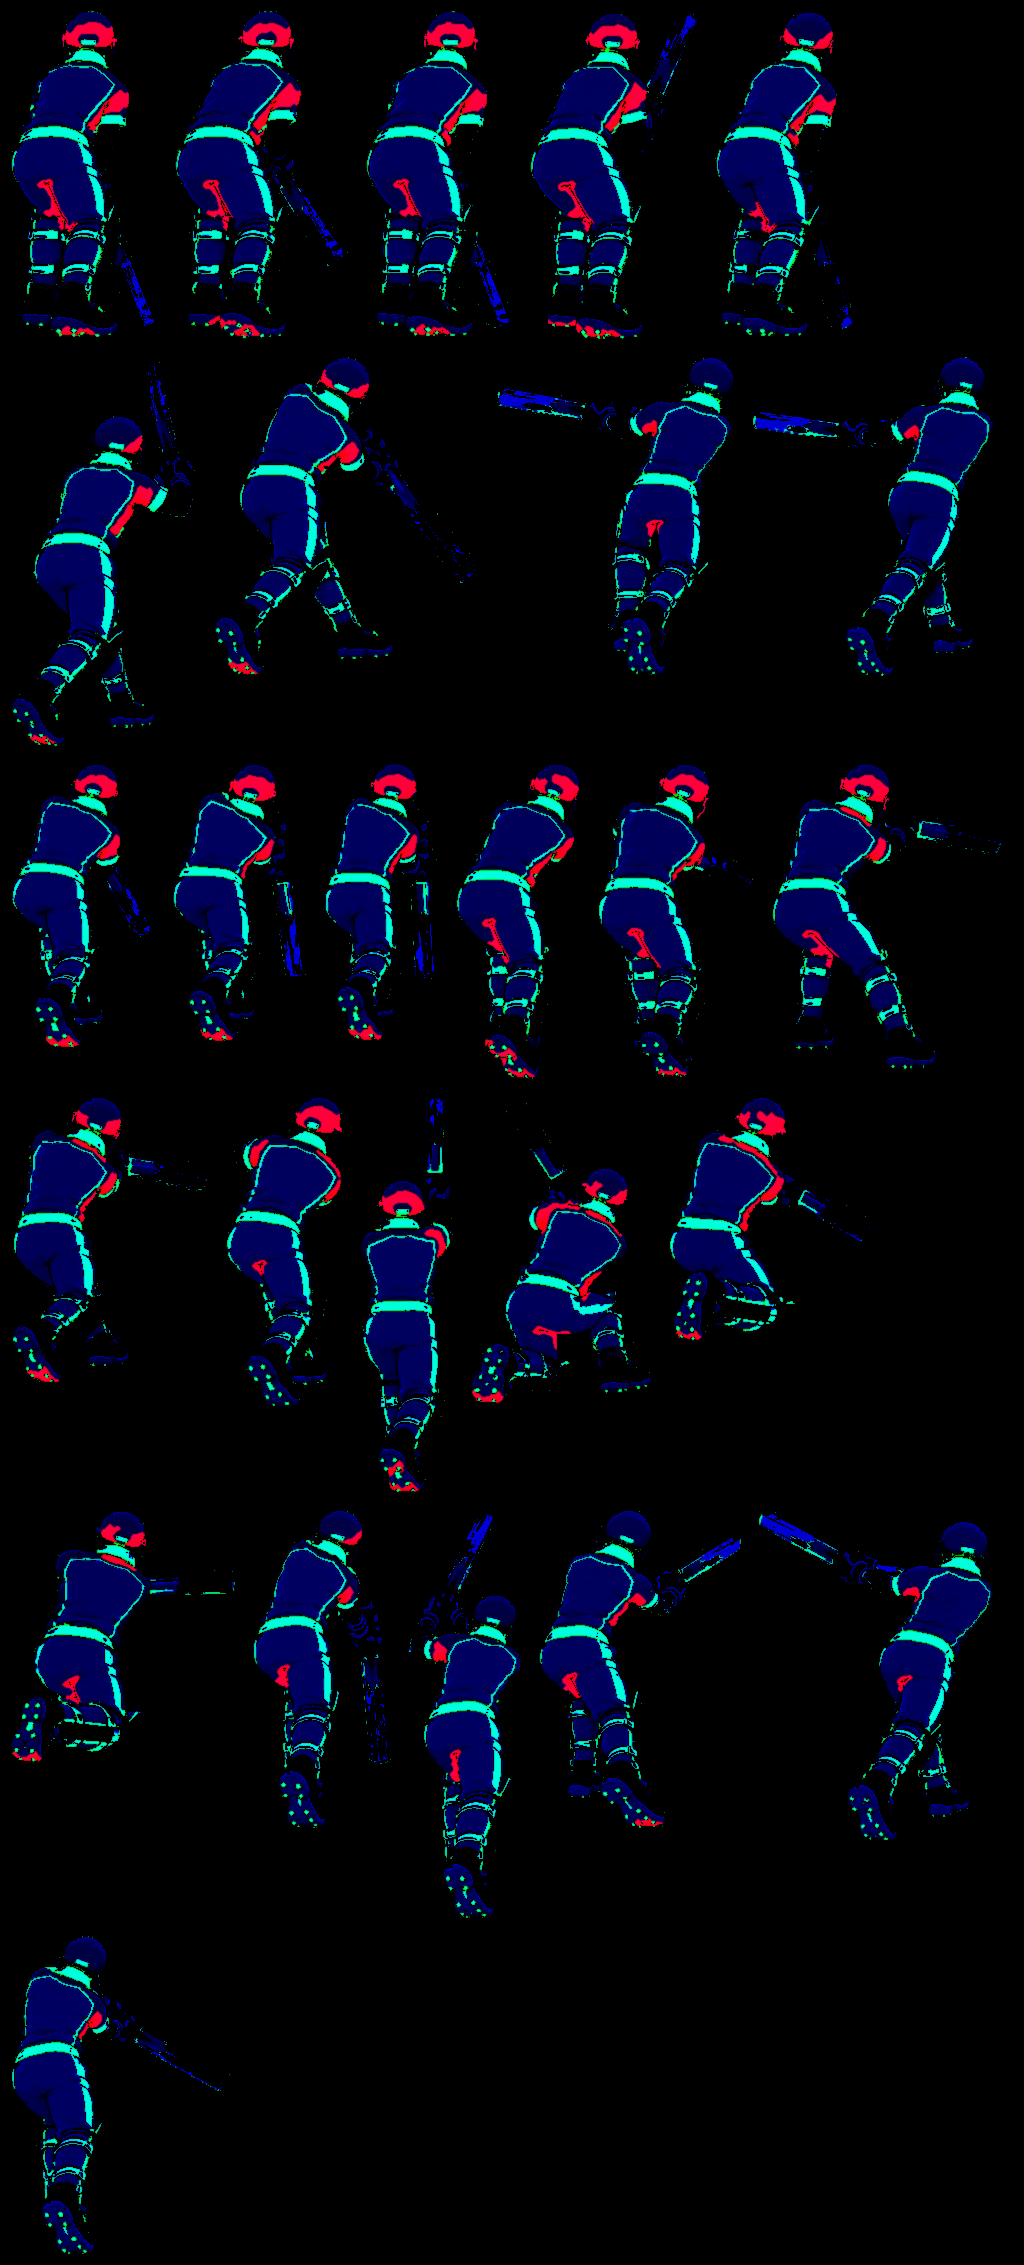
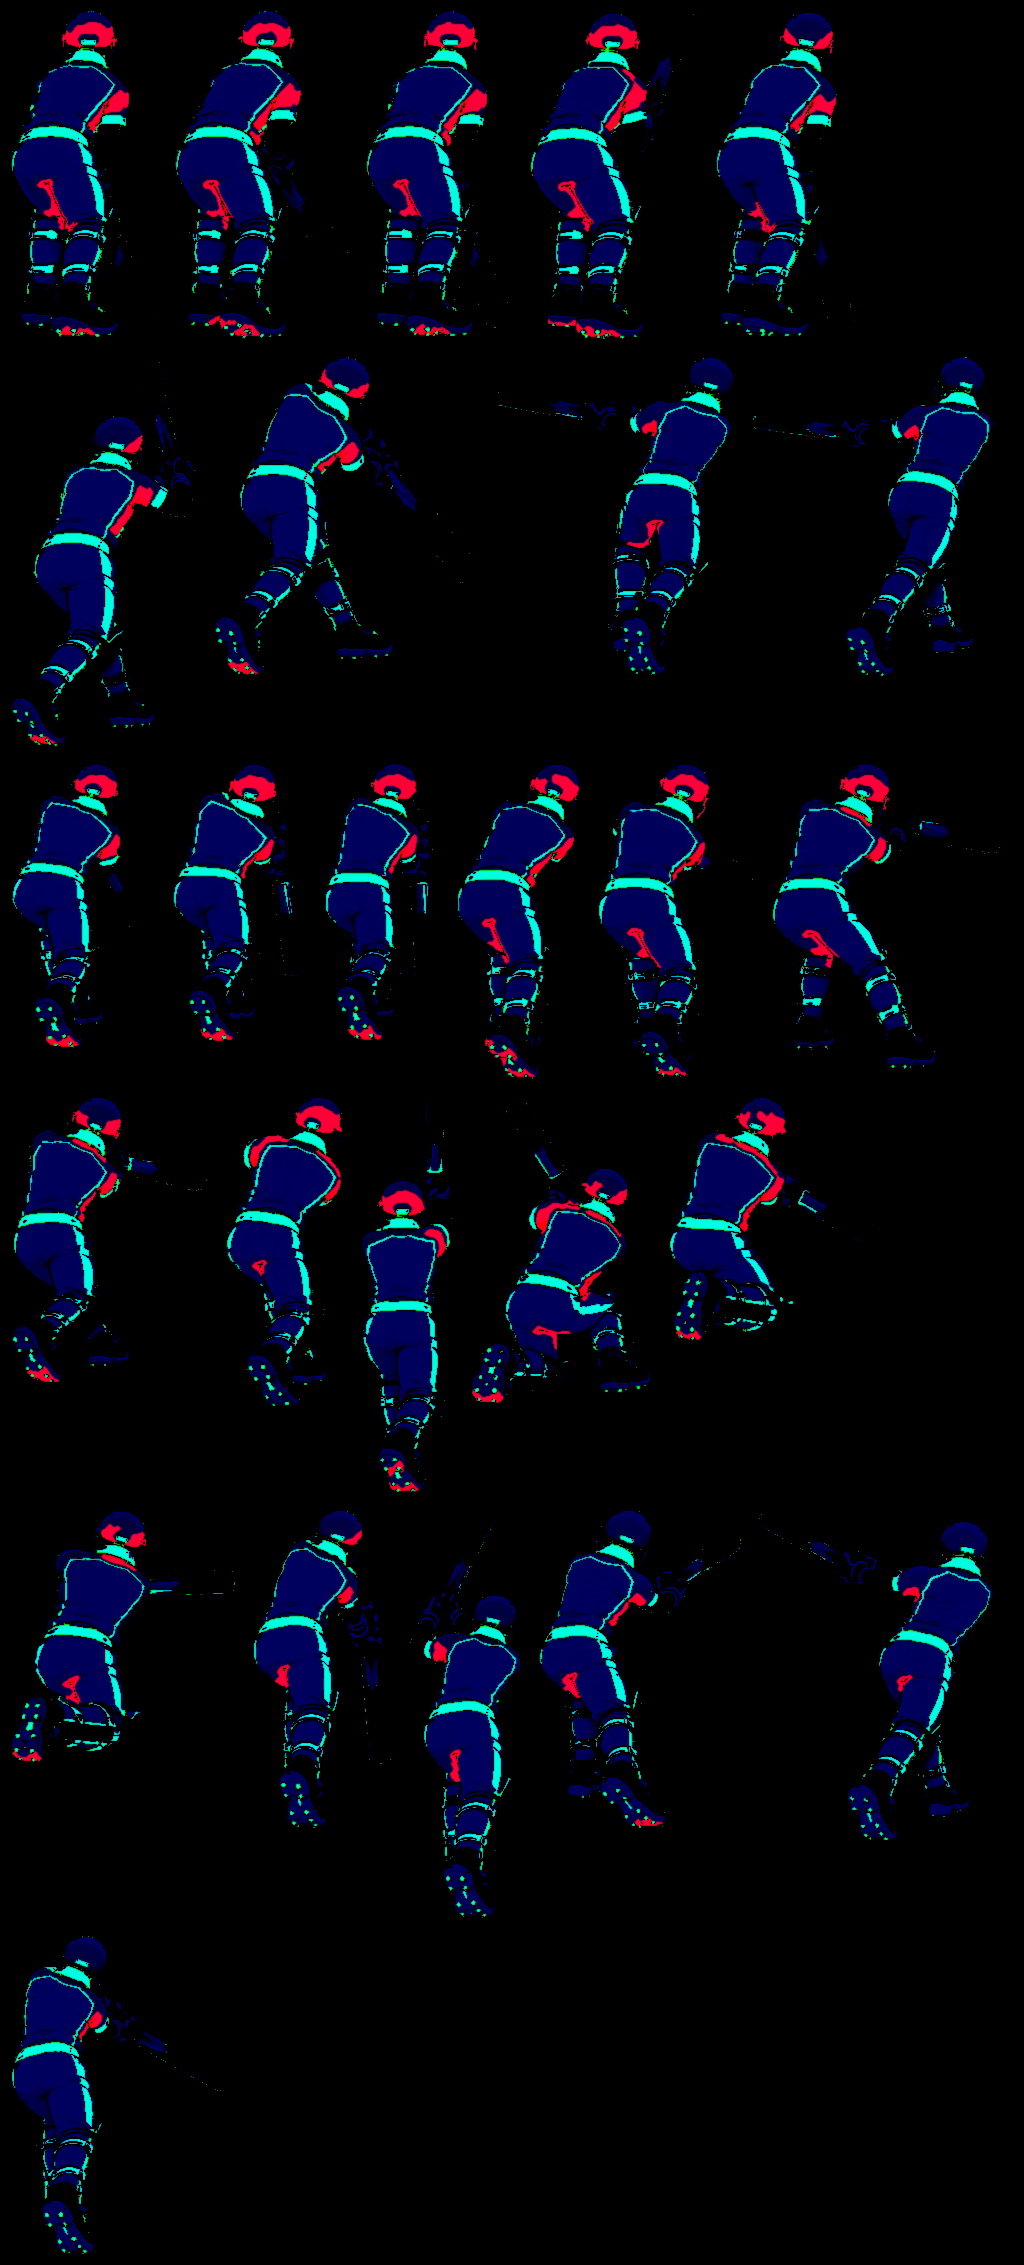
Batter kit shaded like the bowler's (his cloth's light and dark matched to the bowler's), print sized like the bowler's, no pale rim, the willow never takes the trim colour
Claude-Session: https://claude.ai/code/session_01NK7tbrKg5PdA6fuyEUPXLd

diff --git a/js/kitsheets.js b/js/kitsheets.js
@@ -2,4 +2,4 @@
 // [x, y, w, h, feet x, feet y] in sheet order; place: the crest (front: [x, y, size, squash x,
 // squash y, tilt]) or the name-and-number print (back: [x, y, width, squash x, squash y, tilt,
 // name dx, dy, number dx, dy]) per frame; shading references for the repaint.
-export const KIT_SHEETS = {"front":{"frames":[[4,4,227,609,115.7,602],[235,4,204,603,108.5,596],[443,4,232,595,100.6,588],[679,4,181,601,90.4,594],[4,617,184,670,98.7,663],[192,617,204,657,107.8,650],[400,617,234,531,161.4,524],[638,617,200,532,104.9,525],[4,1291,201,557,90.7,550],[209,1291,216,579,105.9,572]],"place":[[153,167,36,1,1,0],[377,154,35,1,1,0],[591,154,35,1,1,0],[795,159,32,0.9,1,0],[142,863,31,0.95,1,5],[363,868,31,0.95,1,5],[549,761,34,1,0.85,0],[754,762,31,0.95,0.85,-5],[148,1439,35,1,1,0],[359,1454,36,1,1,0]],"refPx":580,"suit":[0.0376,0.2954,0.587],"trim":[0.5314,0.8456,0.9029],"skin":0.7306,"tones":[0.2955,0.2955,0.8423],"hair":{"beard_full":0.2269,"beard_goatee":0.1998,"beard_long":0.1906,"bun":0.2773,"buzz":0.2963,"cap":0.2815,"curly":0.2799,"dreads":0.2727,"long":0.2593,"messy":0.2999,"part":0.3383,"ponytail":0.2813,"spiky":0.2762},"size":[1024,1874]},"back":{"frames":[[4,4,223,593,111.2,586],[231,4,203,585,111.9,578],[438,4,226,585,125.1,578],[668,4,184,572,61.0,565],[4,601,172,628,61.9,621],[180,601,213,636,106.9,629],[397,601,240,538,146.8,531],[641,601,234,534,104.0,527],[4,1241,213,572,115.0,565],[221,1241,215,586,107.6,579]],"place":[[116.6,158.1,88.0,1.0,1.0,0.4,0,0,0,0],[343.2,149.0,88.0,1.0,1.0,0.8,0,0,0,0],[558.0,148.9,88.0,1.0,1.0,0.0,0,0,0,0],[738,149.2,84.5,0.88,1.0,2,-4,0,-2,0],[95.9,814.9,81.0,0.85,0.95,15.1,0,0,0,0],[306.5,801.6,81.0,0.85,0.95,10.9,0,0,0,0],[502,714.2,86.2,1.0,0.75,-6,0,0,0,0],[741,714.7,86.2,1.0,0.75,-6,0,0,0,0],[117.6,1385.2,88.0,1.0,1.0,0.4,0,0,0,0],[331.2,1393.8,89.8,1.0,1.0,0.8,0,0,0,0]],"refPx":563,"suit":[0.032,0.3087,0.5514],"trim":[0.5231,0.8489,0.9123],"skin":0.7332,"tones":[0.3087,0.3087,0.8455],"hair":{"bun":0.2553,"buzz":0.2918,"cap":0.2709,"curly":0.2702,"dreads":0.2718,"long":0.2647,"messy":0.2757,"part":0.2824,"ponytail":0.2667,"spiky":0.2812},"size":[1024,1831]},"spin-front":{"frames":[[4,4,182,471,90.8,464],[190,4,175,474,103.6,467],[369,4,172,473,91.2,466],[545,4,173,483,87.0,476],[722,4,165,515,62.2,508],[4,523,164,565,80.0,558],[172,523,152,564,71.3,544],[328,523,165,547,53.2,528],[497,523,255,478,85.7,461],[756,523,173,413,62.2,400],[4,1092,264,385,95.9,378],[272,1092,180,405,108.1,398],[456,1092,144,425,76.3,418],[604,1092,179,431,74.7,424],[787,1092,192,438,94.7,431]],"place":[[133,134,26,1,1,0],[324,133,24,1,1,0],[503,130,24,1,1,0],[663,127,24,1,1,0],[848,180,24,1,1,0],[145,711,22,0.9,1,0],[268,717,21,0.9,1,0],[456,715,21,0.9,1,0],[646,705,20,0.9,0.9,10],[872,632,20,0.9,0.85,0],[118,1191,19,0.9,0.85,0],[368,1192,21,1,0.9,0],[524,1199,22,1,0.95,0],[728,1206,26,1,1,0],[918,1204,26,1,1,0]],"refPx":441,"suit":[0.0299,0.3355,0.4715],"trim":[0.548,0.8593,0.9122],"skin":0.7273,"tones":[0.341,0.154,0.8608],"hair":{"beard_full":0.1972,"beard_goatee":0.2001,"beard_long":0.2064,"bun":0.2433,"buzz":0.241,"cap":0.2898,"curly":0.2653,"dreads":0.2535,"long":0.2468,"messy":0.2721,"part":0.2843,"ponytail":0.2781,"spiky":0.2609},"size":[1024,1534]},"spin-back":{"frames":[[4,4,205,533,100.3,526],[213,4,201,526,110.7,519],[418,4,214,510,122.2,503],[636,4,168,520,54.4,513],[808,4,157,568,64.3,561],[4,576,174,536,56.4,529],[182,576,168,528,67.2,521],[354,576,165,520,59.7,498],[523,576,204,489,64.8,467],[731,576,195,427,99.9,420],[4,1116,270,378,98.4,371],[278,1116,189,392,97.5,385],[471,1116,207,396,98.1,389],[682,1116,185,397,98.2,390],[4,1517,193,401,95.6,394]],"place":[[110,150,72.0,1,1,0,0,0,0,0],[326,138,72.0,1,1,0,0,0,0,0],[539,138,72.0,0.95,1,0,0,0,0,0],[711,141,72.0,0.95,1,11,0,0,0,0],[894,208,72.0,0.95,1,5,0,0,0,0],[100,760,72.0,0.95,1,10,0,0,0,0],[266,753,72.0,0.95,1,10,0,0,0,0],[451,742,72.0,0.95,0.95,18,0,0,0,0],[637,718,72.0,0.95,0.8,20,0,0,0,0],[853,677,72.0,0.95,0.8,12,0,0,0,0],[115,1188,72.0,1,0.7,-6,0,0,0,0],[362,1201,72.0,1,0.75,-10,0,0,0,0],[558,1210,72.0,1,0.85,-6,0,0,0,0],[773,1218,72.0,1,1,0,0,0,0,0],[104,1643,72.0,1,1,0,0,0,0,0]],"refPx":502,"suit":[0.0255,0.3304,0.4621],"trim":[0.5425,0.8472,0.9129],"skin":0.735,"tones":[0.3359,0.1507,0.8497],"hair":{"bun":0.2768,"buzz":0.2522,"cap":0.3009,"curly":0.2524,"dreads":0.3474,"long":0.2919,"messy":0.2526,"part":0.2321,"ponytail":0.2864,"spiky":0.2346},"size":[1024,1922]},"bat-back":{"frames":[[4,4,160,340,81.7,333],[168,4,187,341,73.3,334],[359,4,160,340,81.7,333],[523,4,182,342,75.4,335],[709,4,153,340,73.3,333],[4,350,199,403,66.6,396],[207,350,279,332,80.6,325],[490,350,252,332,154.4,325],[746,350,254,333,132.3,326],[4,757,157,297,59.1,290],[165,757,148,292,53.1,285],[317,757,128,291,48.3,284],[449,757,138,329,69.7,322],[591,757,170,327,78.0,320],[765,757,244,319,131.4,312],[4,1090,211,300,52.1,293],[219,1090,131,325,61.7,318],[354,1090,106,409,49.5,402],[464,1090,194,321,77.0,314],[662,1090,218,257,61.1,250],[4,1503,238,267,53.9,260],[246,1503,152,332,59.5,325],[402,1503,127,422,69.6,415],[533,1503,215,332,108.5,325],[752,1503,248,345,128.2,338],[4,1929,233,332,69.8,325]],"place":[[73.0,95,42.2,1,1,0,0,0,0,0],[240.0,93,44.0,1,1,0,0,0,0,0],[429.5,95,42.2,1,1,0,0,0,0,0],[589.5,96,42.8,1,1,0,0,0,0,0],[780.0,94,42.8,1,1,0,0,0,0,0],[96.0,499,44.6,1,1,0,0,0,0,0],[305.0,427,45.9,1,1,0,0,0,0,0],[690.0,439,45.9,1,1,0,0,0,0,0],[953.0,438,44.0,1,1,0,0,0,0,0],[74.5,832,40.9,1,1,0,0,0,0,0],[229.5,832,44.0,1,1,0,0,0,0,0],[375.5,837,46.5,1,1,0,0,0,0,0],[525.0,836,41.5,1,1,0,0,0,0,0],[658.0,841,47.1,1,1,0,0,0,0,0],[834.5,841,45.9,1,1,0,0,0,0,0],[68.0,1174,47.1,1,1,0,0,0,0,0],[295.0,1177,45.3,1,1,0,0,0,0,0],[401.0,1267,44.6,1,1,0,0,0,0,0],[581.0,1241,41.5,1,1,0,0,0,0,0],[733.0,1178,49.6,1,1,0,0,0,0,0],[104.0,1590,45.3,1,1,0,0,0,0,0],[310.0,1581,45.9,1,1,0,0,0,0,0],[479.5,1668,42.8,1,1,0,0,0,0,0],[597.0,1589,45.9,1,1,0,0,0,0,0],[954.0,1600,39.7,1,1,0,0,0,0,0],[58.5,2007,44.0,1,1,0,0,0,0,0]],"refPx":328,"suit":[0.0416,0.3529,0.6141],"trim":[0.4749,0.8562,0.9238],"skin":0.6371,"tones":[0.3575,0.2091,0.8592],"hair":{},"size":[1024,2265]}};
+export const KIT_SHEETS = {"front":{"frames":[[4,4,227,609,115.7,602],[235,4,204,603,108.5,596],[443,4,232,595,100.6,588],[679,4,181,601,90.4,594],[4,617,184,670,98.7,663],[192,617,204,657,107.8,650],[400,617,234,531,161.4,524],[638,617,200,532,104.9,525],[4,1291,201,557,90.7,550],[209,1291,216,579,105.9,572]],"place":[[153,167,36,1,1,0],[377,154,35,1,1,0],[591,154,35,1,1,0],[795,159,32,0.9,1,0],[142,863,31,0.95,1,5],[363,868,31,0.95,1,5],[549,761,34,1,0.85,0],[754,762,31,0.95,0.85,-5],[148,1439,35,1,1,0],[359,1454,36,1,1,0]],"refPx":580,"suit":[0.0376,0.2954,0.587],"trim":[0.5314,0.8456,0.9029],"skin":0.7306,"tones":[0.2955,0.2955,0.8423],"hair":{"beard_full":0.2269,"beard_goatee":0.1998,"beard_long":0.1906,"bun":0.2773,"buzz":0.2963,"cap":0.2815,"curly":0.2799,"dreads":0.2727,"long":0.2593,"messy":0.2999,"part":0.3383,"ponytail":0.2813,"spiky":0.2762},"size":[1024,1874]},"back":{"frames":[[4,4,223,593,111.2,586],[231,4,203,585,111.9,578],[438,4,226,585,125.1,578],[668,4,184,572,61.0,565],[4,601,172,628,61.9,621],[180,601,213,636,106.9,629],[397,601,240,538,146.8,531],[641,601,234,534,104.0,527],[4,1241,213,572,115.0,565],[221,1241,215,586,107.6,579]],"place":[[116.6,158.1,88.0,1.0,1.0,0.4,0,0,0,0],[343.2,149.0,88.0,1.0,1.0,0.8,0,0,0,0],[558.0,148.9,88.0,1.0,1.0,0.0,0,0,0,0],[738,149.2,84.5,0.88,1.0,2,-4,0,-2,0],[95.9,814.9,81.0,0.85,0.95,15.1,0,0,0,0],[306.5,801.6,81.0,0.85,0.95,10.9,0,0,0,0],[502,714.2,86.2,1.0,0.75,-6,0,0,0,0],[741,714.7,86.2,1.0,0.75,-6,0,0,0,0],[117.6,1385.2,88.0,1.0,1.0,0.4,0,0,0,0],[331.2,1393.8,89.8,1.0,1.0,0.8,0,0,0,0]],"refPx":563,"suit":[0.032,0.3087,0.5514],"trim":[0.5231,0.8489,0.9123],"skin":0.7332,"tones":[0.3087,0.3087,0.8455],"hair":{"bun":0.2553,"buzz":0.2918,"cap":0.2709,"curly":0.2702,"dreads":0.2718,"long":0.2647,"messy":0.2757,"part":0.2824,"ponytail":0.2667,"spiky":0.2812},"size":[1024,1831]},"spin-front":{"frames":[[4,4,182,471,90.8,464],[190,4,175,474,103.6,467],[369,4,172,473,91.2,466],[545,4,173,483,87.0,476],[722,4,165,515,62.2,508],[4,523,164,565,80.0,558],[172,523,152,564,71.3,544],[328,523,165,547,53.2,528],[497,523,255,478,85.7,461],[756,523,173,413,62.2,400],[4,1092,264,385,95.9,378],[272,1092,180,405,108.1,398],[456,1092,144,425,76.3,418],[604,1092,179,431,74.7,424],[787,1092,192,438,94.7,431]],"place":[[133,134,26,1,1,0],[324,133,24,1,1,0],[503,130,24,1,1,0],[663,127,24,1,1,0],[848,180,24,1,1,0],[145,711,22,0.9,1,0],[268,717,21,0.9,1,0],[456,715,21,0.9,1,0],[646,705,20,0.9,0.9,10],[872,632,20,0.9,0.85,0],[118,1191,19,0.9,0.85,0],[368,1192,21,1,0.9,0],[524,1199,22,1,0.95,0],[728,1206,26,1,1,0],[918,1204,26,1,1,0]],"refPx":441,"suit":[0.0299,0.3355,0.4715],"trim":[0.548,0.8593,0.9122],"skin":0.7273,"tones":[0.341,0.154,0.8608],"hair":{"beard_full":0.1972,"beard_goatee":0.2001,"beard_long":0.2064,"bun":0.2433,"buzz":0.241,"cap":0.2898,"curly":0.2653,"dreads":0.2535,"long":0.2468,"messy":0.2721,"part":0.2843,"ponytail":0.2781,"spiky":0.2609},"size":[1024,1534]},"spin-back":{"frames":[[4,4,205,533,100.3,526],[213,4,201,526,110.7,519],[418,4,214,510,122.2,503],[636,4,168,520,54.4,513],[808,4,157,568,64.3,561],[4,576,174,536,56.4,529],[182,576,168,528,67.2,521],[354,576,165,520,59.7,498],[523,576,204,489,64.8,467],[731,576,195,427,99.9,420],[4,1116,270,378,98.4,371],[278,1116,189,392,97.5,385],[471,1116,207,396,98.1,389],[682,1116,185,397,98.2,390],[4,1517,193,401,95.6,394]],"place":[[110,150,72.0,1,1,0,0,0,0,0],[326,138,72.0,1,1,0,0,0,0,0],[539,138,72.0,0.95,1,0,0,0,0,0],[711,141,72.0,0.95,1,11,0,0,0,0],[894,208,72.0,0.95,1,5,0,0,0,0],[100,760,72.0,0.95,1,10,0,0,0,0],[266,753,72.0,0.95,1,10,0,0,0,0],[451,742,72.0,0.95,0.95,18,0,0,0,0],[637,718,72.0,0.95,0.8,20,0,0,0,0],[853,677,72.0,0.95,0.8,12,0,0,0,0],[115,1188,72.0,1,0.7,-6,0,0,0,0],[362,1201,72.0,1,0.75,-10,0,0,0,0],[558,1210,72.0,1,0.85,-6,0,0,0,0],[773,1218,72.0,1,1,0,0,0,0,0],[104,1643,72.0,1,1,0,0,0,0,0]],"refPx":502,"suit":[0.0255,0.3304,0.4621],"trim":[0.5425,0.8472,0.9129],"skin":0.735,"tones":[0.3359,0.1507,0.8497],"hair":{"bun":0.2768,"buzz":0.2522,"cap":0.3009,"curly":0.2524,"dreads":0.3474,"long":0.2919,"messy":0.2526,"part":0.2321,"ponytail":0.2864,"spiky":0.2346},"size":[1024,1922]},"bat-back":{"frames":[[4,4,160,340,81.7,333],[168,4,187,341,73.3,334],[359,4,160,340,81.7,333],[523,4,182,342,75.4,335],[709,4,153,340,73.3,333],[4,350,199,403,66.6,396],[207,350,279,332,80.6,325],[490,350,252,332,154.4,325],[746,350,254,333,132.3,326],[4,757,157,297,59.1,290],[165,757,148,292,53.1,285],[317,757,128,291,48.3,284],[449,757,138,329,69.7,322],[591,757,170,327,78.0,320],[765,757,244,319,131.4,312],[4,1090,211,300,52.1,293],[219,1090,131,325,61.7,318],[354,1090,106,409,49.5,402],[464,1090,194,321,77.0,314],[662,1090,218,257,61.1,250],[4,1503,238,267,53.9,260],[246,1503,152,332,59.5,325],[402,1503,127,422,69.6,415],[533,1503,215,332,108.5,325],[752,1503,248,345,128.2,338],[4,1929,233,332,69.8,325]],"place":[[73.0,95,54.4,1,1,0,0,0,0,0],[240.0,93,56.8,1,1,0,0,0,0,0],[429.5,95,54.4,1,1,0,0,0,0,0],[589.5,96,55.2,1,1,0,0,0,0,0],[780.0,94,55.2,1,1,0,0,0,0,0],[96.0,499,57.6,1,1,0,0,0,0,0],[305.0,427,59.2,1,1,0,0,0,0,0],[690.0,439,59.2,1,1,0,0,0,0,0],[953.0,438,56.8,1,1,0,0,0,0,0],[74.5,832,52.8,1,1,0,0,0,0,0],[229.5,832,56.8,1,1,0,0,0,0,0],[375.5,837,60.0,1,1,0,0,0,0,0],[525.0,836,53.6,1,1,0,0,0,0,0],[658.0,841,60.8,1,1,0,0,0,0,0],[834.5,841,59.2,1,1,0,0,0,0,0],[68.0,1174,60.8,1,1,0,0,0,0,0],[295.0,1177,58.4,1,1,0,0,0,0,0],[401.0,1267,57.6,1,1,0,0,0,0,0],[581.0,1241,53.6,1,1,0,0,0,0,0],[733.0,1178,64.0,1,1,0,0,0,0,0],[104.0,1590,58.4,1,1,0,0,0,0,0],[310.0,1581,59.2,1,1,0,0,0,0,0],[479.5,1668,55.2,1,1,0,0,0,0,0],[597.0,1589,59.2,1,1,0,0,0,0,0],[954.0,1600,51.2,1,1,0,0,0,0,0],[58.5,2007,56.8,1,1,0,0,0,0,0]],"refPx":328,"suit":[0.0416,0.3529,0.6141],"trim":[0.5018,0.8594,0.9244],"skin":0.6414,"tones":[0.357,0.2094,0.8631],"hair":{},"size":[1024,2265]}};

diff --git a/tools/build_kit_sheets.py b/tools/build_kit_sheets.py
@@ -43,7 +43,8 @@ def masks(a, bat=False):
     H, S, V = hsv(a[..., :3])
     op = a[..., 3] > 0.3
     suit = op & (H > 195) & (H < 255) & (S > 0.3)
-    trim = op & (H > 40) & (H < 70) & (S > 0.5) & (V > 0.45)
+    # (the batter's willow reaches hue 41: his yellow starts above it)
+    trim = op & (H > (44 if bat else 40)) & (H < 70) & (S > 0.5) & (V > 0.45)
     skin = op & (H > 5) & (H < 40) & (S > 0.2) & (V > 0.3) & ~trim
     if bat:
         # the batter's willow is drawn close to his skin: paler and yellower (hue 34-41, saturation
@@ -173,7 +174,7 @@ def tones(a, design=None, off=0, marks=None, hard=False):
     drawn in the premium kit is read as drawn; a plain one gets the design painted on (design)."""
     H, S, V = hsv(a[..., :3])
     rgb = a[..., :3]
-    kit = (a[..., 3] > 0.3) & (((H > 190) & (H < 265) & (S > 0.25)) | ((H > 38) & (H < 72) & (S > 0.45)))
+    kit = (a[..., 3] > 0.3) & (((H > 190) & (H < 265) & (S > 0.25)) | ((H > (44 if hard else 38)) & (H < 72) & (S > 0.45)))
     chroma = lambda c: c / (c.sum(-1, keepdims=True) + 1e-3)
     L = rgb @ LUM
     # the main colour and navy share a hue: told apart by brightness (main L ~ 86, navy ~ 42 of 255)
@@ -202,7 +203,7 @@ def tones(a, design=None, off=0, marks=None, hard=False):
         lab, n = ndi.label(nv)
         if n:
             nv = np.isin(lab, 1 + np.nonzero(ndi.sum(nv, lab, range(1, n + 1)) >= 120)[0])
-        yl = kit & ndi.binary_closing(yel > 0.45, iterations=1)
+        yl = kit & ndi.binary_closing(yel > 0.45, iterations=1) & (H > 44)
         navy, yel = nv.astype(float) * ~yl, yl.astype(float)
     w = np.stack([(1 - yel) * (1 - navy), (1 - yel) * navy, yel], -1)
     w = ndi.gaussian_filter(w, (0.8, 0.8, 0) if not hard else (0.6, 0.6, 0))
@@ -258,12 +259,23 @@ def build(view, sheet, hairpaths, place, count=10, rowh=600, premium=False, desi
     # (a margin all round, so a pose at the sheet's edge can still be cut with padding)
     M = 60
     a = np.pad(keyed(sheet) / 255, ((M, M), (M, M), (0, 0)))
+    if hard:
+        # the drawn batter has a pale rim outside his ink line where the kit meets the background;
+        # the bowler has none: it takes the ink colour (not on pads, gloves and shoes, which are white)
+        op = a[..., 3] > 0.3
+        ring = op & ~ndi.binary_erosion(op, iterations=3)
+        H, S, V = hsv(a[..., :3])
+        kitc = op & (((H > 190) & (H < 265) & (S > 0.25)) | ((H > 44) & (H < 72) & (S > 0.45)))
+        pale = ring & (S < 0.3) & (V > 0.7) & ndi.binary_dilation(kitc, iterations=4) & ~ndi.binary_dilation(op & (S < 0.25) & (V > 0.8) & ~ring, iterations=2)
+        a[pale, :3] = np.array([20, 16, 24]) / 255
     hairs = {st: clean_hair(np.pad(np.array(Image.open(hp).convert('RGBA')).astype(np.float32) / 255, ((M, M), (M, M), (0, 0)))) for st, hp in hairpaths.items()}
     hair_any = np.max([h[..., 3] for h in hairs.values()], axis=0) if hairs else np.zeros(a.shape[:2])
     suit, trim, skin = masks(a, bat=hard)
     L = a[..., :3] @ LUM
     if premium:
         kit, tw, tL, tref = tones(a, design, M, marks, hard=hard)
+        if hard:
+            tL = match_bowler(kit, tw, tL, tref)
     lab, frames = frames_of(a, count, rowh)
     # each pixel belongs to the nearest pose (hair close to two poses goes to its own head only)
     dist, (iy, ix) = ndi.distance_transform_edt(lab == 0, return_indices=True)
@@ -372,6 +384,31 @@ def main():
                                  marks={k: v for k, v in json.load(open('tools/kit/premium-spin-back.json')).items() if not k.startswith('_')})
     out['bat-back'] = build_bat()
     write_sheets(out)
+
+
+def match_bowler(kit, w, L, ref):
+    """the batter's cloth shaded like the bowler's: per colour (main, navy, trim), his brightness
+    against that colour's own is remapped to the bowler's spread of it (quantile for quantile), so
+    the heavy folds of his drawing come out as the bowler's clean, even shading"""
+    src = open('js/kitsheets.js').read()
+    bm = json.loads(src[src.index('= ') + 2:src.rindex(';')])['back']['tones']
+    t = np.asarray(Image.open('img/kit/back-tone.png')).astype(np.float32)
+    km = np.asarray(Image.open('img/kit/back-mask.png'))[..., 2] == 255
+    R, G, B = t[..., 0][km] / 255, t[..., 1][km] / 255, t[..., 2][km] / 255
+    bw = [np.clip(1 - R - G, 0, 1), R, G]
+    qs = np.linspace(0, 100, 101)
+    out = L.copy()
+    cls = np.argmax(w, -1)
+    for k in range(3):
+        # (clean cloth only: the blend into the piping would read as bright streaks)
+        target = np.clip(np.percentile(B[bw[k] > 0.97] / bm[k], qs), 0, 1.1 if k < 2 else 1.25)
+        sel = kit & (cls == k)
+        if sel.sum() < 100:
+            continue
+        q = L[sel] / ref[k]
+        mine = np.percentile(q, qs)
+        out[sel] = np.interp(q, mine, target) * ref[k]
+    return out
 
 
 def build_bat():

diff --git a/tools/kit/compose_batter.py b/tools/kit/compose_batter.py
@@ -163,7 +163,7 @@ def main():
 def print_spot(rgb, m, ox, oy):
     """the name and number on the back, laid out as on the bowler's (tools/kit/shirt-print-back.json):
     centred across the back panel (the blue between the piping), 42% of the way down from the collar
-    to the waistband, 0.62 of that collar-to-waist drop wide"""
+    to the waistband, 0.8 of that (foreshortened) drop wide"""
     im = Image.fromarray(rgb.astype(np.uint8)).convert('HSV')
     hsv = np.asarray(im).astype(float)
     H, S, V = hsv[..., 0] * 360 / 255, hsv[..., 1] / 255, hsv[..., 2] / 255
@@ -189,7 +189,9 @@ def print_spot(rgb, m, ox, oy):
     band = panel[max(0, y - 4): y + 5]
     bx = np.nonzero(band.any(0))[0]
     cx = (bx.min() + bx.max()) / 2 if len(bx) else float(px.mean())
-    w = 0.62 * (waist - collar)
+    # as big against the back as the bowler's: his back leans toward the camera, so the collar-to-waist
+    # drop reads short; 0.8 of it matches the bowler's print against the width of the back
+    w = 0.8 * (waist - collar)
     return [round(float(cx) + ox, 1), round(y + oy, 1), round(float(w), 1), 1, 1, 0, 0, 0, 0, 0]
 
 
